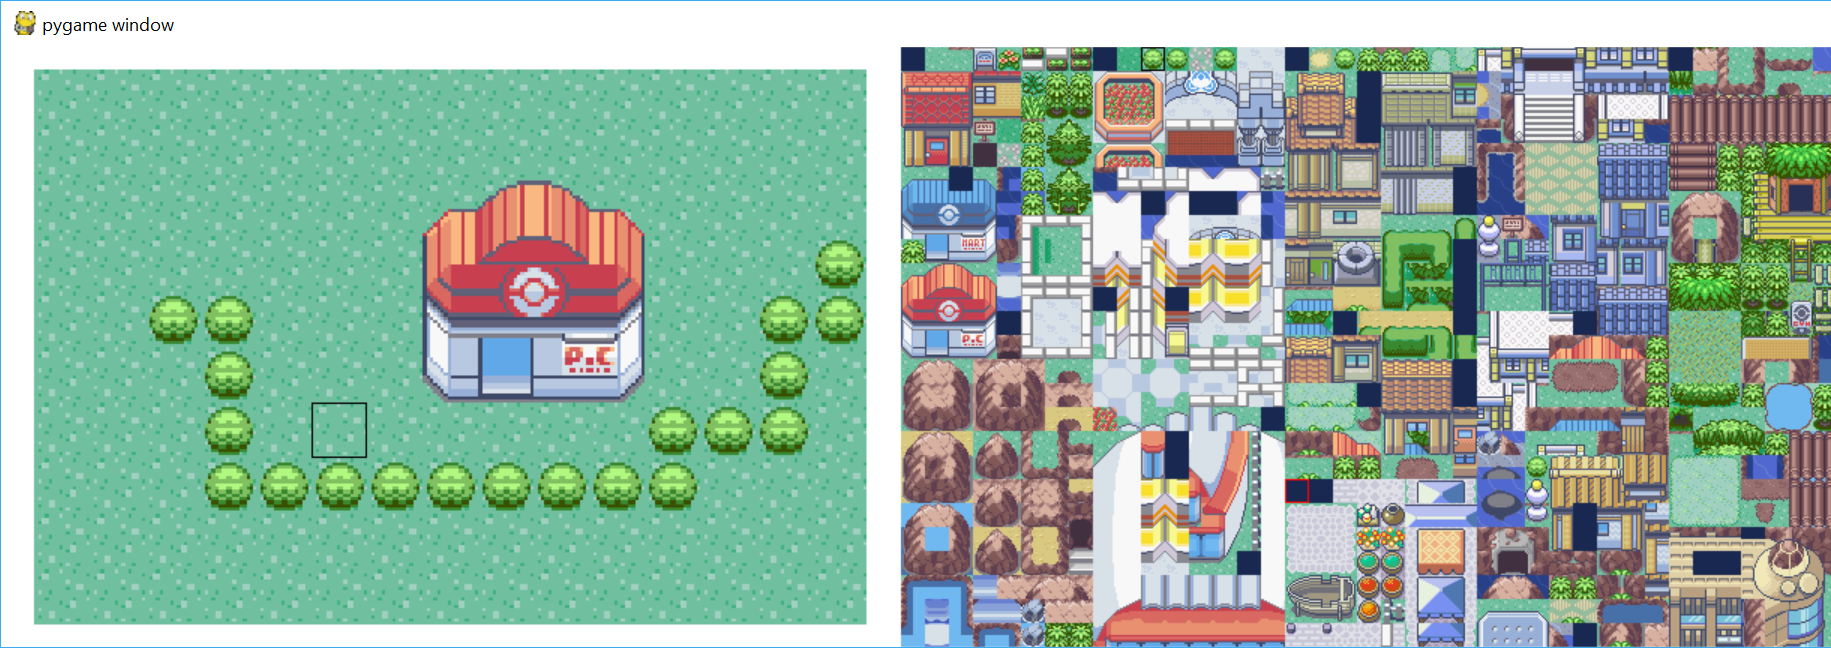
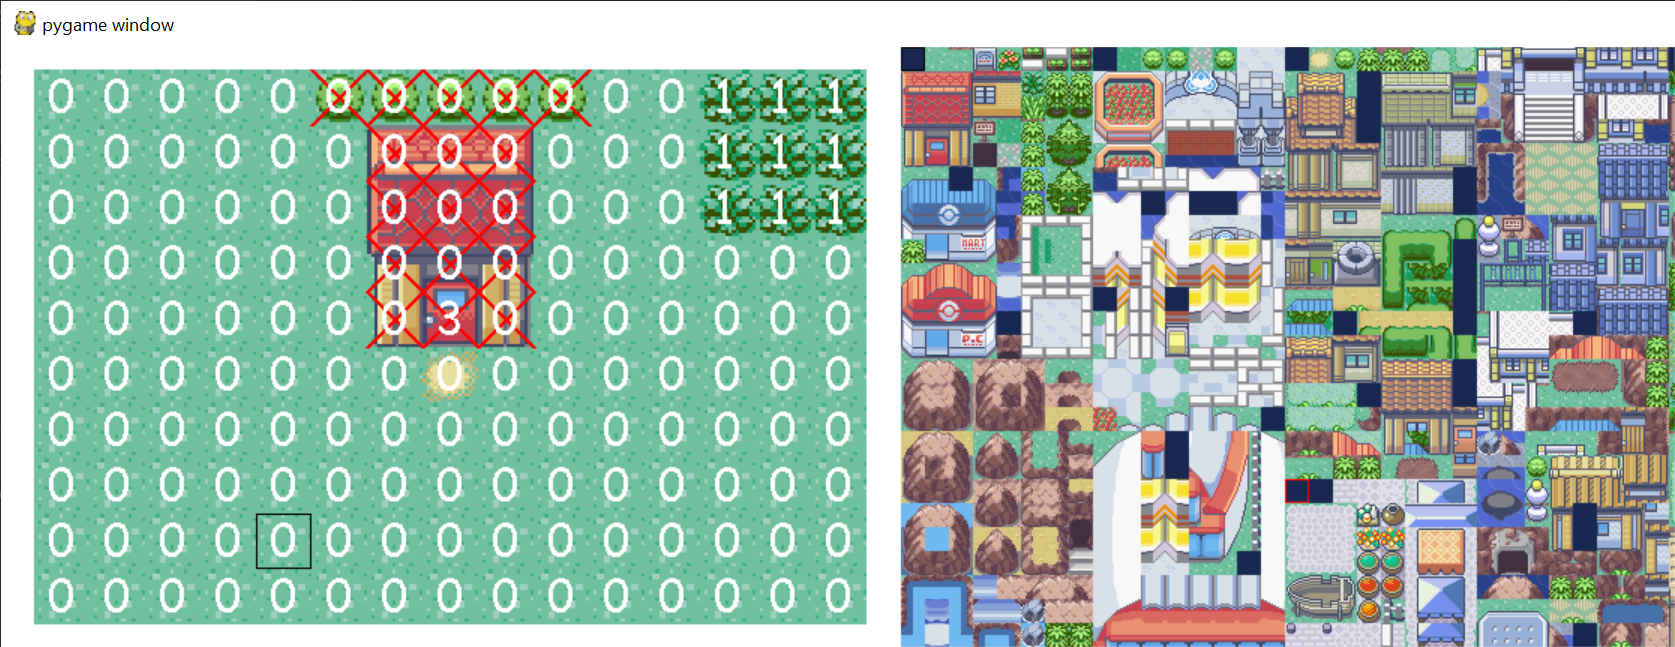
new screenshot

diff --git a/mapmaker/map_maker.py b/mapmaker/map_maker.py
@@ -214,7 +214,7 @@ class MapMaker(object):
         if self.show_event:
             for x in range(self.tiles_holder.shape[0]):
                 for y in range(self.tiles_holder.shape[1]):
-                    textsurface = self.font.render(str(self.tiles_holder[x][y].event.value), False, (0, 0, 0))
+                    textsurface = self.font.render(str(self.tiles_holder[x][y].event.value), False, (255, 255, 255))
                     self.screen.blit(textsurface, (y * self.cell_size + 22 + self.cell_size / 4,
                                                    x * self.cell_size + 15 - self.cell_size / 8))
 
